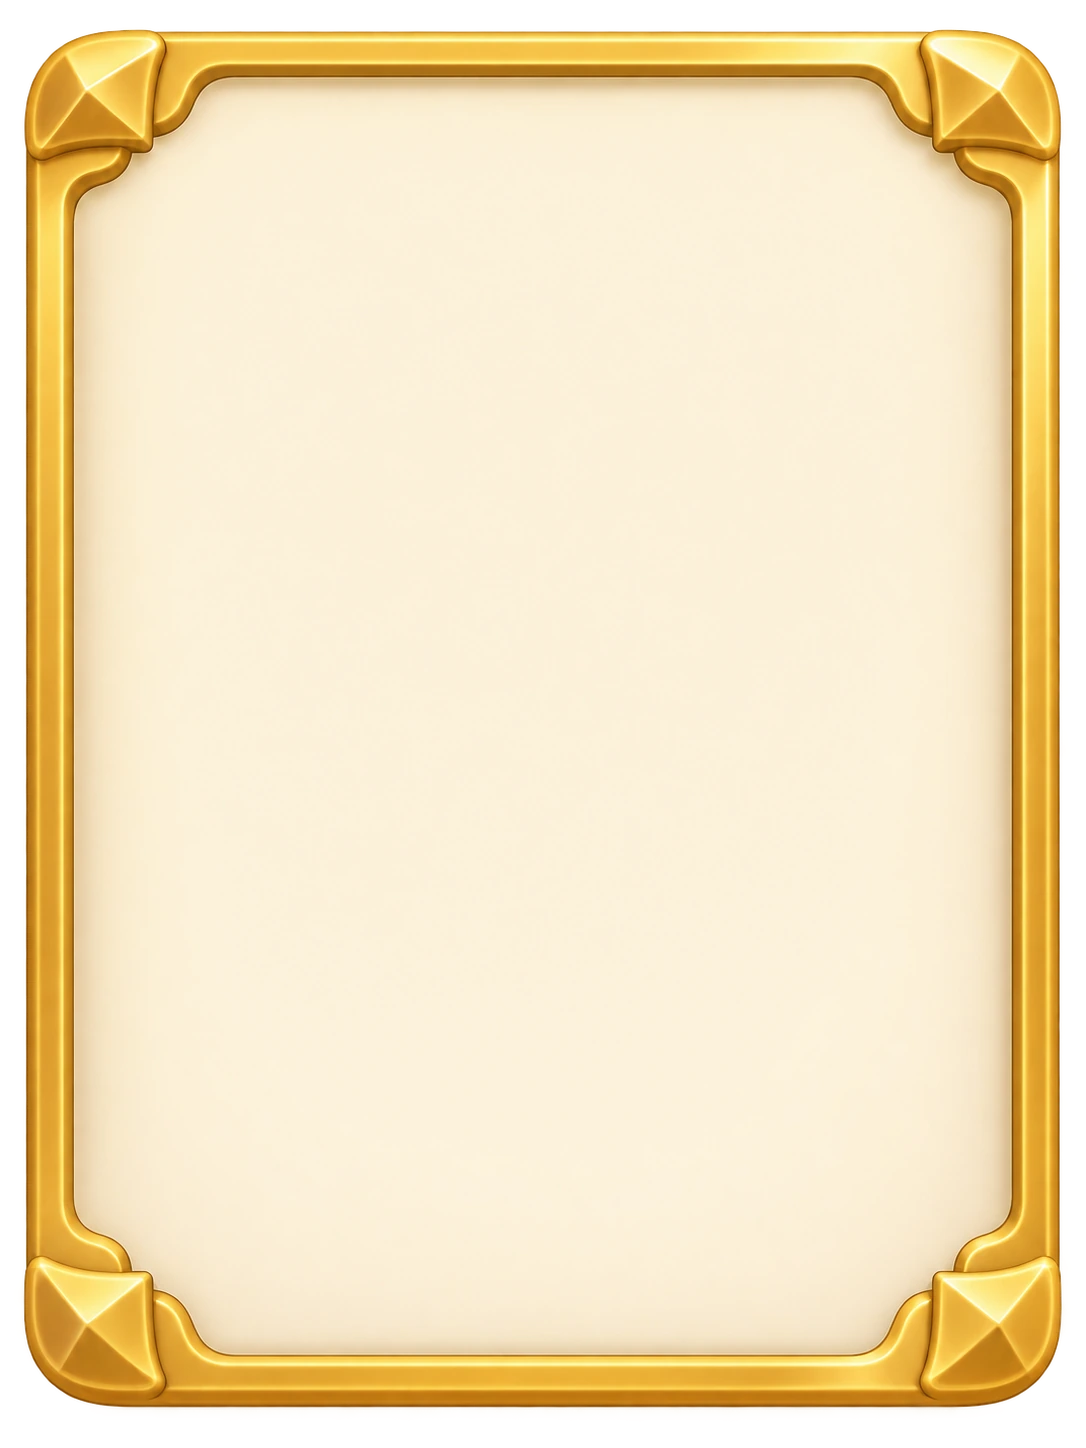
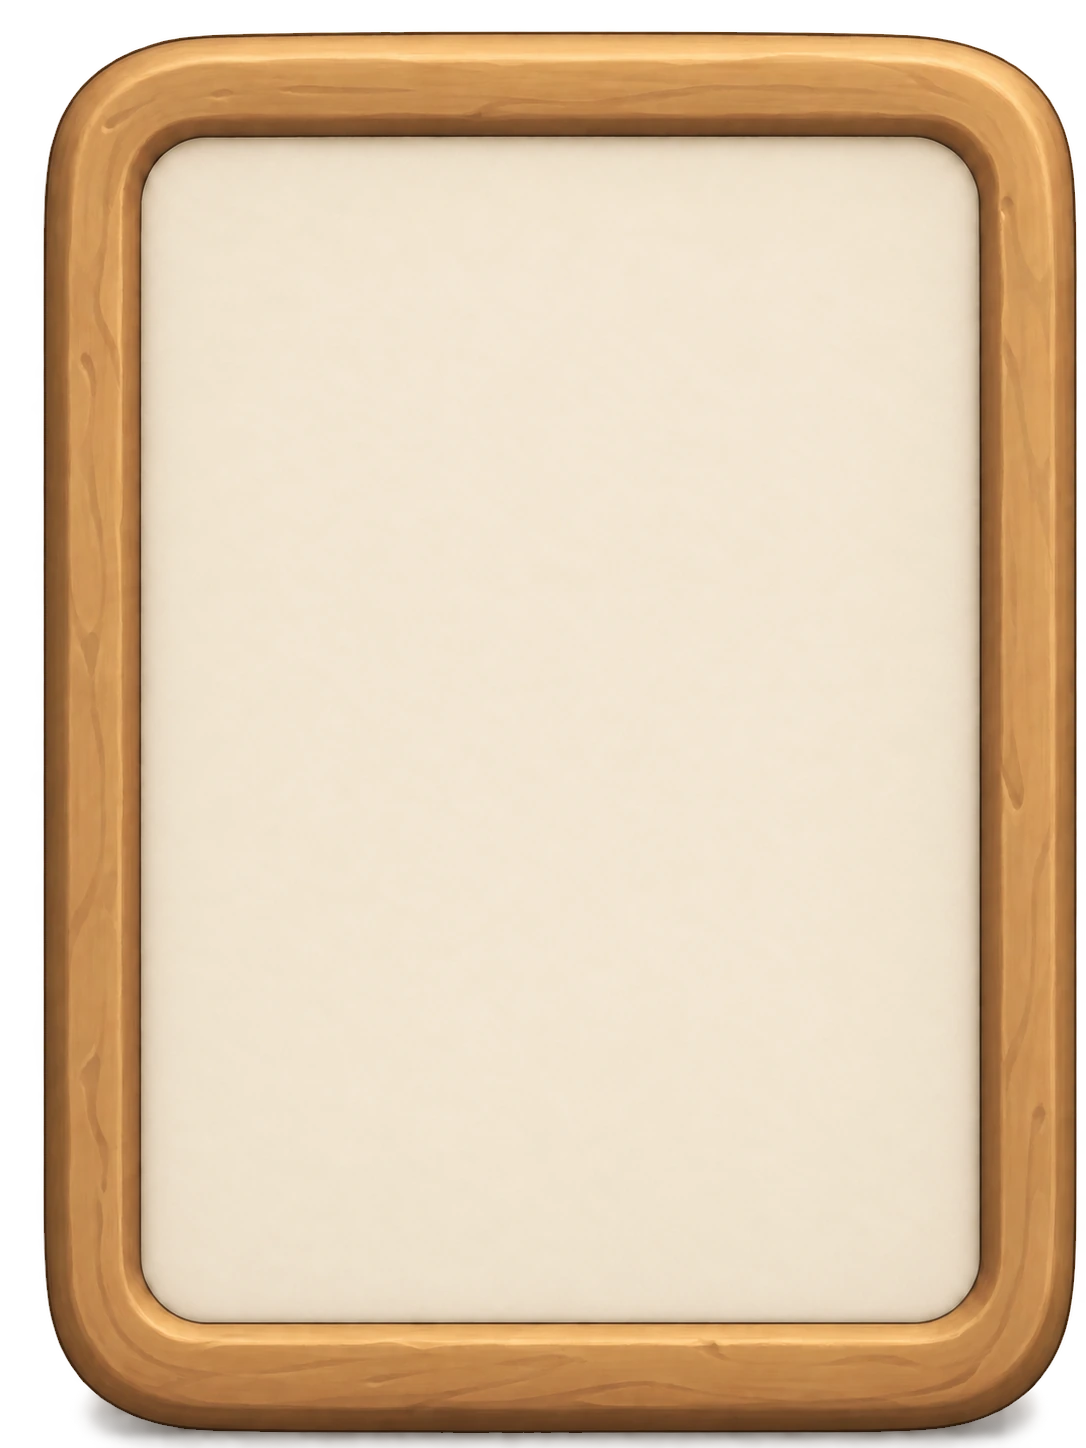
札の型を確定（木枠＋羊皮紙）・数字の書体方針

diff --git a/README.md b/README.md
@@ -4,7 +4,8 @@
 
 ## 素材（確定）
 - img/src/arena-bg.png … 背景（5帯：HUD 8% / 赤 21% / 灰 30% / 青 21% / 木 19%、941×1672）
-- img/src/card-skin-01.png … 札の型（1086×1448、3:4、透明PNG。数字は描かず別画像を重ねる）
+- img/src/card-skin-01.png … 札の型・確定（木枠＋羊皮紙、1086×1448、3:4、透明PNG。数字は描かず別画像を重ねる）
+- 数字の書体方針：Lilita One 系（線が均一で太く丸い）。数字は画像（0〜9、1文字ずつ、同じ高さ・基準線）
 - img/src/layout-wireframe.png … 配置の枠（だす＝右に大きく、すてる＝左に小さく）
 - img/*.webp … ゲームで実際に読む圧縮版
 
